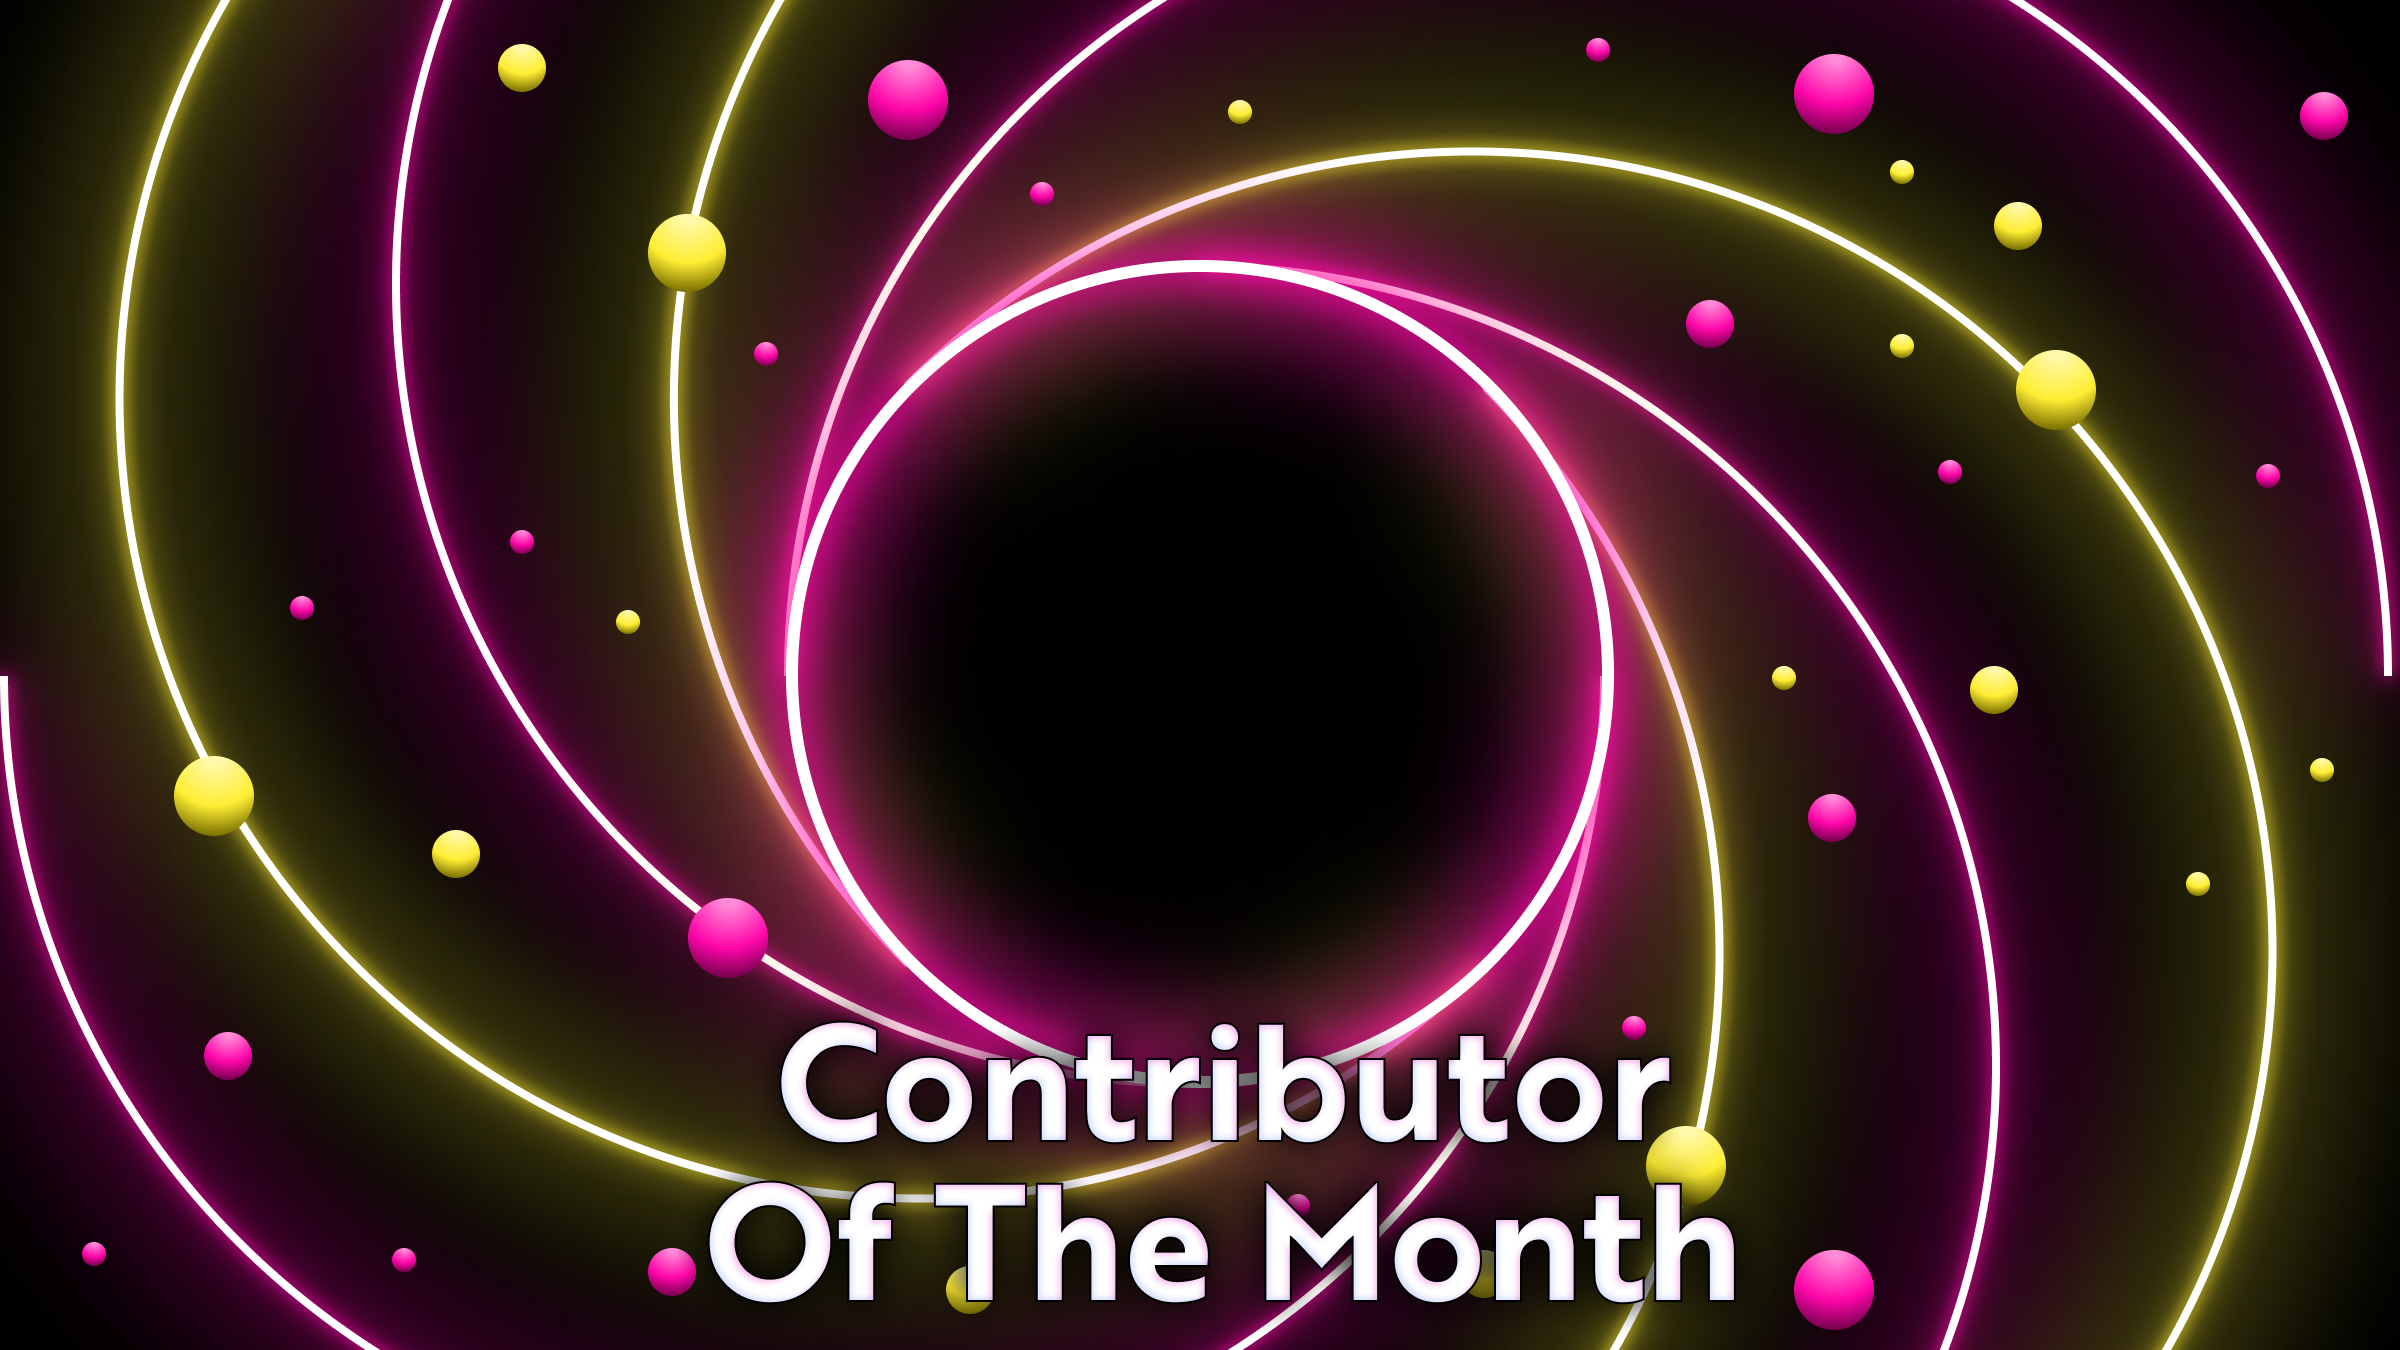
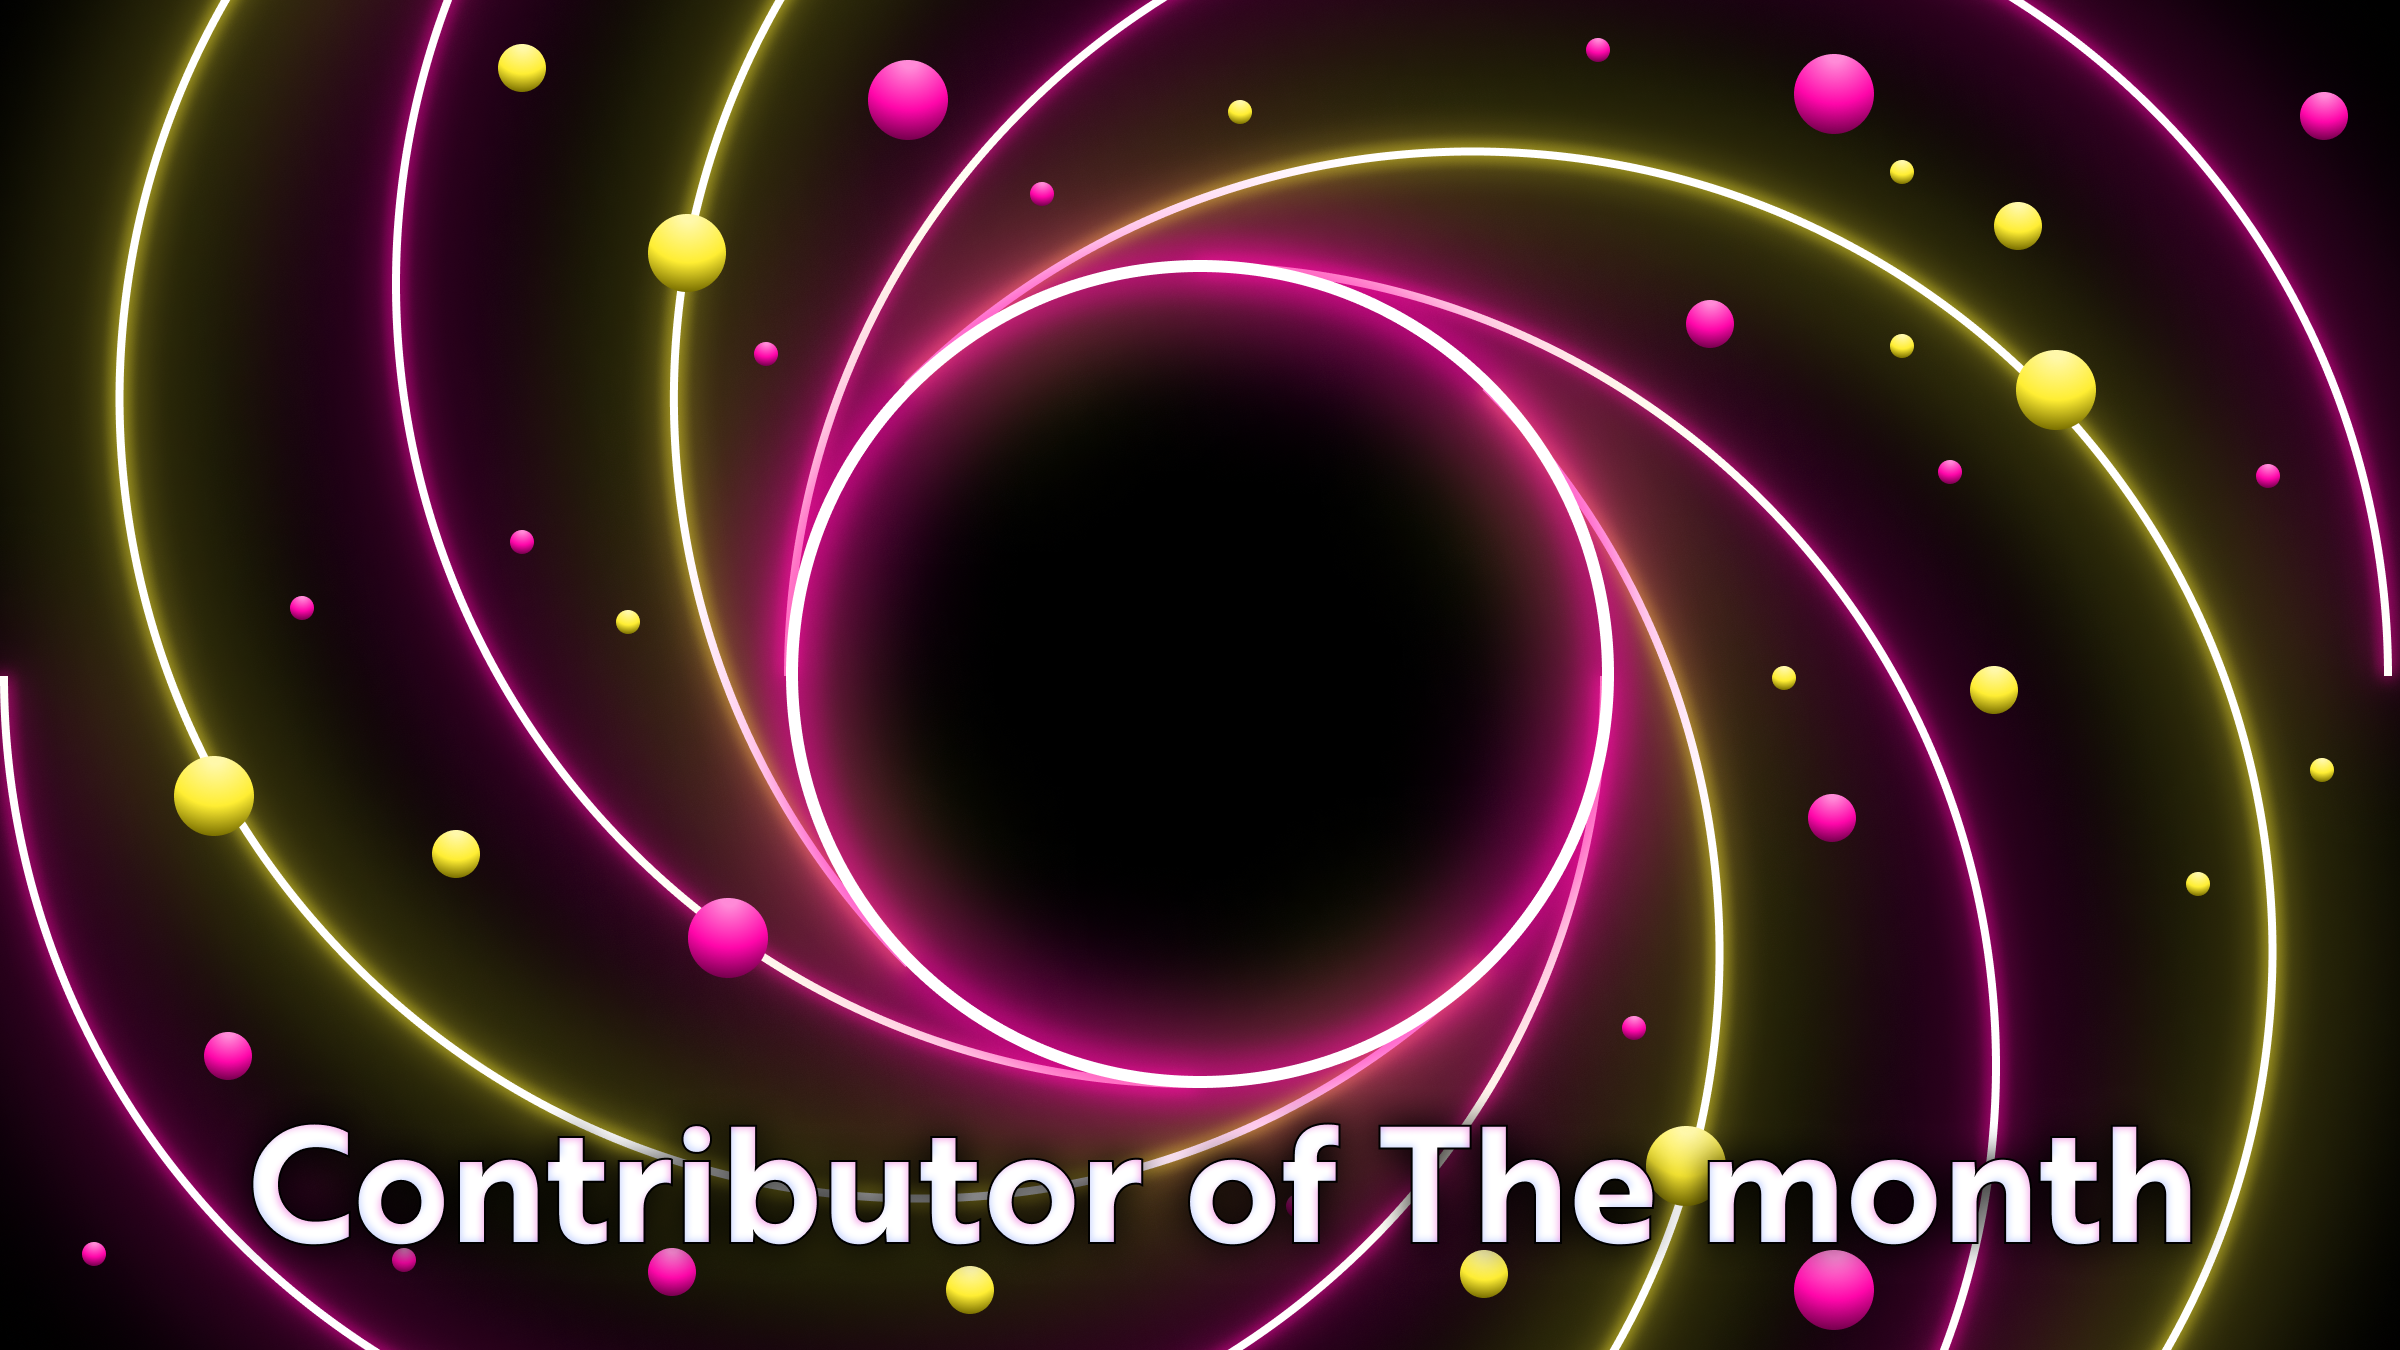
feat: different background picture, different time, year to month

Changed region(s): [[0.0938, 0.7467, 0.9375, 0.9956]]

diff --git a/contributor-of-the-month/src/services/github.ts b/contributor-of-the-month/src/services/github.ts
@@ -89,7 +89,7 @@ query {
 
 		const filterArray = allPulls.repository.pullRequests.nodes.filter(
 			(n) =>
-				moment(n.createdAt).add(1, 'year').isAfter(moment()) &&
+				moment(n.createdAt).add(1, 'month').isAfter(moment()) &&
 				n?.author?.url?.indexOf('/apps/') === -1 &&
 				n?.author?.url
 		);
@@ -101,7 +101,7 @@ query {
 			})),
 			...(allPulls.repository.pullRequests.nodes.length &&
 			moment(allPulls.repository.pullRequests.nodes.slice(-1)[0].createdAt)
-				.add(1, 'year')
+				.add(1, 'month')
 				.isAfter(moment()) &&
 			allPulls.repository.pullRequests.pageInfo.hasNextPage
 				? await GitHubAPI.topContributorOfRepository(
@@ -120,7 +120,7 @@ query {
 		const loadContributors: Array<{login: string; avatarUrl: string}> = [];
 		for (const org of orgs) {
 			loadContributors.push(
-				...(await GitHubAPI.topContributorOfRepository(org))
+				...(await GitHubAPI.topContributorOfRepository(org)).filter(f => f.login.toLowerCase().indexOf('nevo') > -1)
 			);
 		}
 

diff --git a/contributor-of-the-month/src/scheduler.ts b/contributor-of-the-month/src/scheduler.ts
@@ -31,9 +31,7 @@ const startProcess = async () => {
 		composition,
 		serveUrl: bundleLocation,
 		codec: 'h264',
-		outputLocation: 'out/contributor.mp4',
+		outputLocation: 'out/contributor.gif',
 		inputProps: topContributor,
 	});
 };
-
-startProcess();
